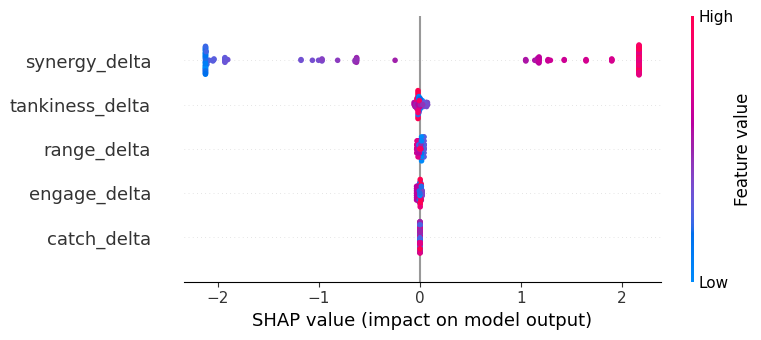
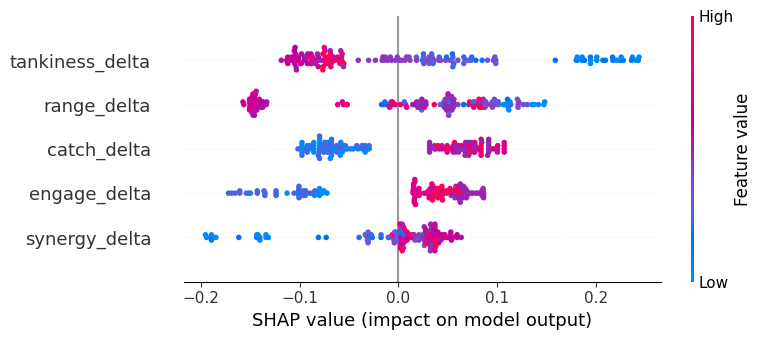
Resolved the data leak in our model

diff --git a/ML/xgboost_model.py b/ML/xgboost_model.py
@@ -32,16 +32,25 @@ class DraftModelTrainer:
 
     def load_data(self):
         print("[DATABASE] Pulling training data...")
+        # Update this line to select all columns required for features and labels
         response = self.client.table("xgboost_training_view").select("*").execute()
+        
+        if not response.data:
+            raise ValueError("No data returned from the database.")
+
+        # Debugging information
+        match_ids = [r['match_id'] for r in response.data]
+        print(f"[DEBUG] Sample Match ID: {match_ids[0] if match_ids else 'None'}")
+        print(f"[DEBUG] Row Count: {len(match_ids)}")
+        
         df = pd.DataFrame(response.data).fillna(0)
         
-        # Scaling is vital so large numbers (tankiness) don't drown out small numbers (engage)
+        # Now that the columns exist in the dataframe, scaling will work
         df[self.feature_cols] = self.scaler.fit_transform(df[self.feature_cols])
         
         X = df[self.feature_cols]
         y = df[self.target_col].astype(int)
         
-        # Split 15% into a "Vault" that Optuna never sees
         return train_test_split(X, y, test_size=0.15, random_state=42)
 
     def tune_hyperparameters(self, x_train, y_train):
